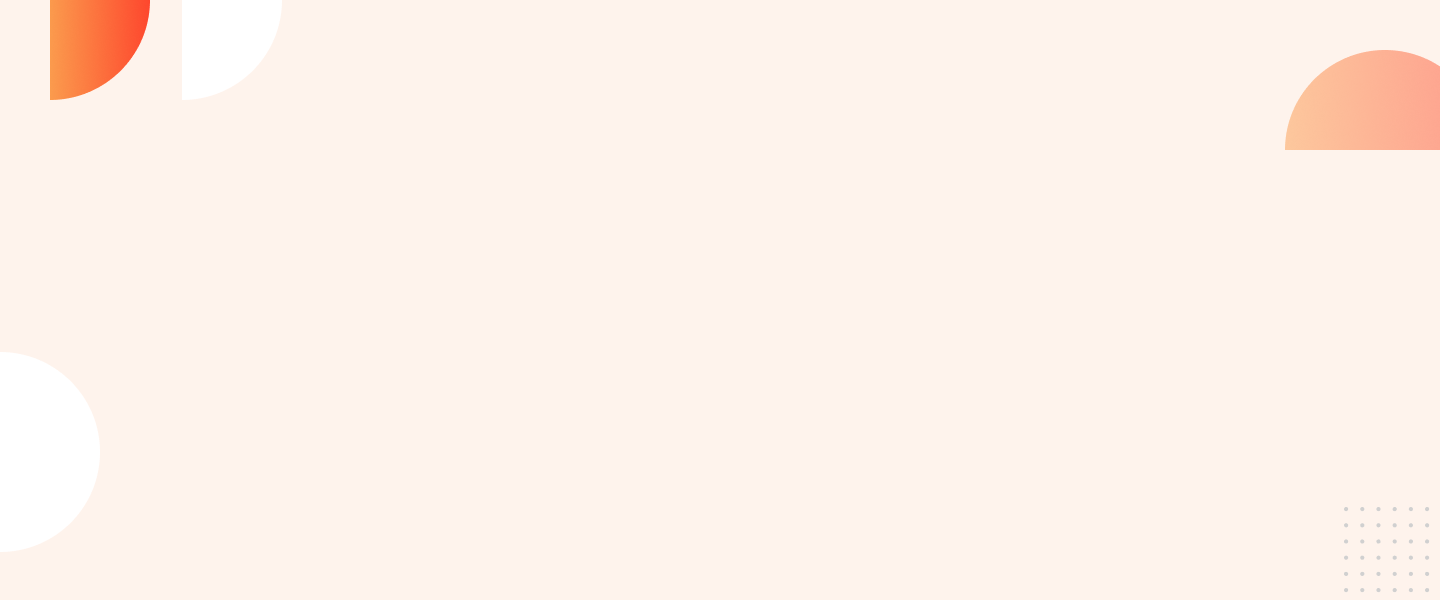
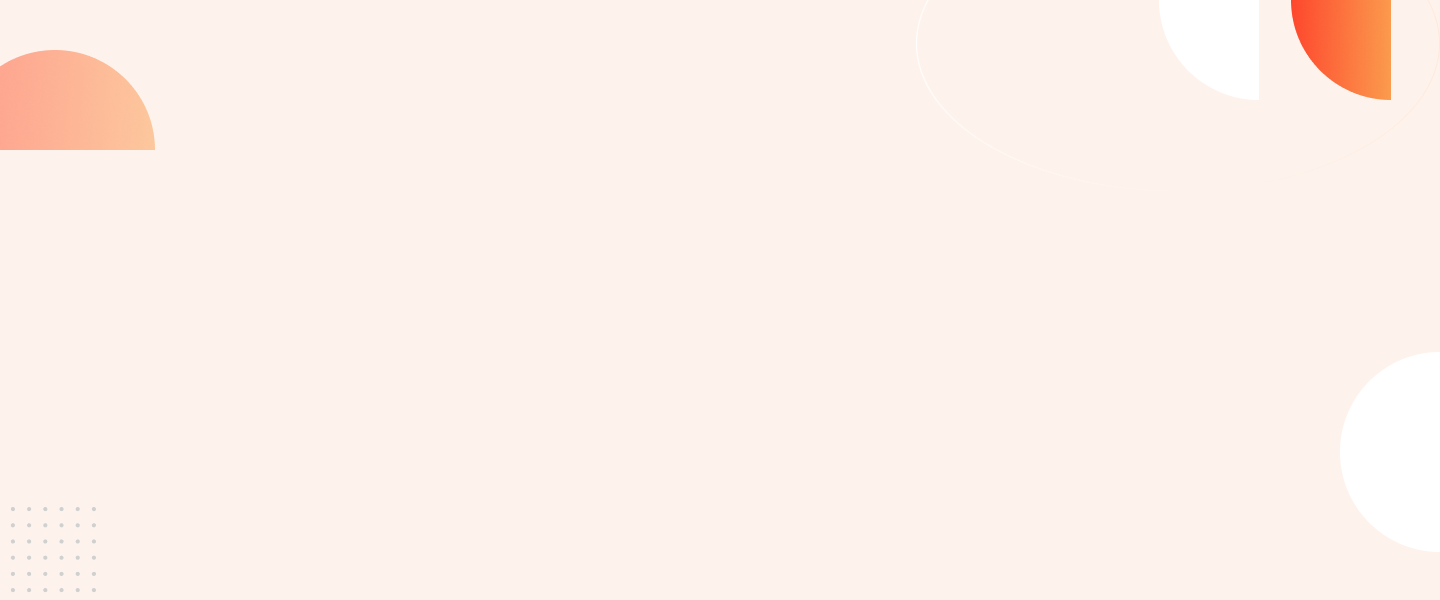
second section

Changed region(s): [[0.875, 0.0, 1.0, 0.27], [0.0, 0.0, 0.125, 0.27]]

diff --git a/index.html b/index.html
@@ -12,17 +12,35 @@
     <link rel="stylesheet" href="style.css">
 </head>
 <body>
-    <section class="top-section flexible-container">
-        <div class="half-part">
-            <img src="images/female/model1.jpg" alt="1st Person">
+    <section class="top-section">
+        <div class="flexible-container">
+            <div class="half-part part1">
+                <img src="images/female/6667872_preview-removebg-preview.png" alt="1st Person">
+            </div>
+            <div class="half-part part2">
+                <h1><span class="highlights">Skip</span> the Diet,</h1>
+                <h1>Just Eat Healthy</h1>
+                <h1>With Organic Food</h1>
+                <p>Imagine you don't need a diet because we provide 
+                healthy and delicious food for you!</p>
+                <div class="btn">
+                    <a class="link-btn" target="_blank" href="https://myorganicbd.com/">Order Food</a>
+                </div>
+            </div>
         </div>
-        <div class="half-part">
-            <h1><span class="highlights">Skip</span> the Diet,</h1>
-            <h1>Just Eat Healthy</h1>
-            <h1>With Organic Food</h1>
-            <p>Imagine you don't need a diet because we provide 
-            healthy and delicious food for you!</p>
-            <a target="_blank" href="https://myorganicbd.com/">Order Food</a>
+    </section>
+    <section class="second-section">
+        <div class="flexible-container">
+            <div class="half-part part1">
+                <h1>About Me</h1>
+                <p>Lorem ipsum dolor sit amet consectetur adipisicing elit. Officiis necessitatibus, fugiat numquam ipsum vitae molestiae error alias blanditiis itaque rem sapiente tenetur quis fuga dicta repellendus consectetur hic eius laborum?</p>
+                <div class="btn">
+                    <a class="link-btn" target="_blank" href="https://myorganicbd.com/">Contact Me</a>
+                </div>
+            </div>
+            <div class="half-part part2">
+                <img src="images/female/6667872_preview-removebg-preview.png" alt="1st Person">
+            </div>
         </div>
     </section>
 </body>

diff --git a/style.css b/style.css
@@ -3,21 +3,60 @@ body {
   margin: 0;
   padding: 0;
 }
+section {
+  margin-bottom: 100px;
+}
+p {
+  color: #828282;
+  font-weight: 100;
+  font-size: 18px;
+}
 .highlights {
   color: rgb(250, 99, 44);
 }
-.top-section h1 {
+.link-btn {
+  text-decoration: none;
+  background-image: linear-gradient(#fba24f, #ff1e1e);
+  border-radius: 50px;
+  padding: 15px 30px;
+  color: #ffffff;
+}
+.top-section .btn {
+  margin-top: 50px;
+}
+h1 {
   font-size: 40px;
   margin-top: 20px;
   padding: 0;
+  color: #575757;
+}
+.second-section {
+  background-image: url(images/shapes/7.png);
 }
 .flexible-container {
+  width: 90%;
+  margin: auto;
   display: flex;
 }
 .half-part {
   width: 50%;
-  padding-left: 2%;
+  border: tomato 1px solid;
 }
 .half-part img {
   width: 90%;
+}
+.top-section .part2 {
+  text-align: right;
+  margin-top: 70px;
+}
+/*Second Section*/
+.second-section .part1 {
+  padding-right: 5%;
+  margin-top: 70px;
+}
+.second-section p {
+  text-align: justify;
+}
+.second-section .btn {
+  margin-top: 80px;
 }
